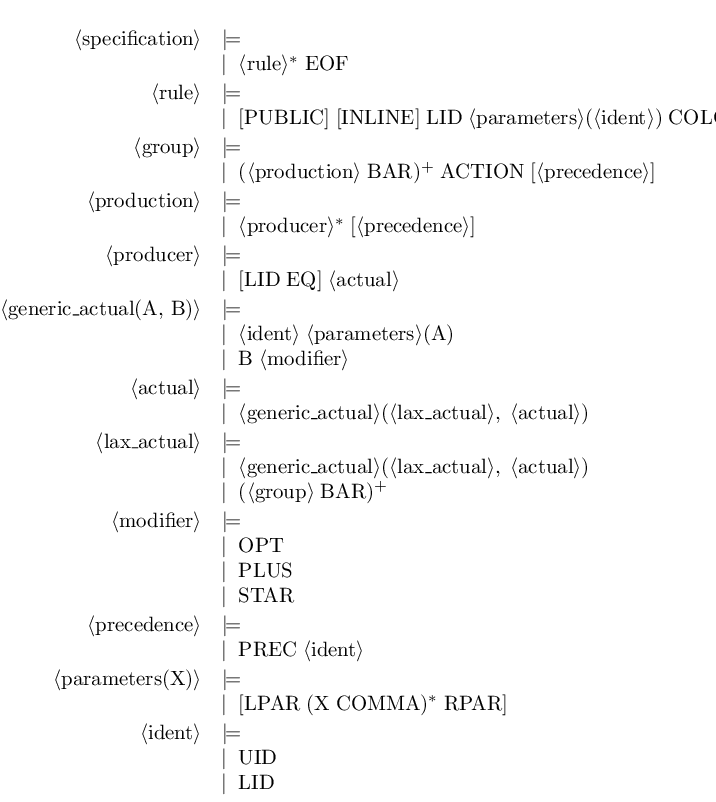
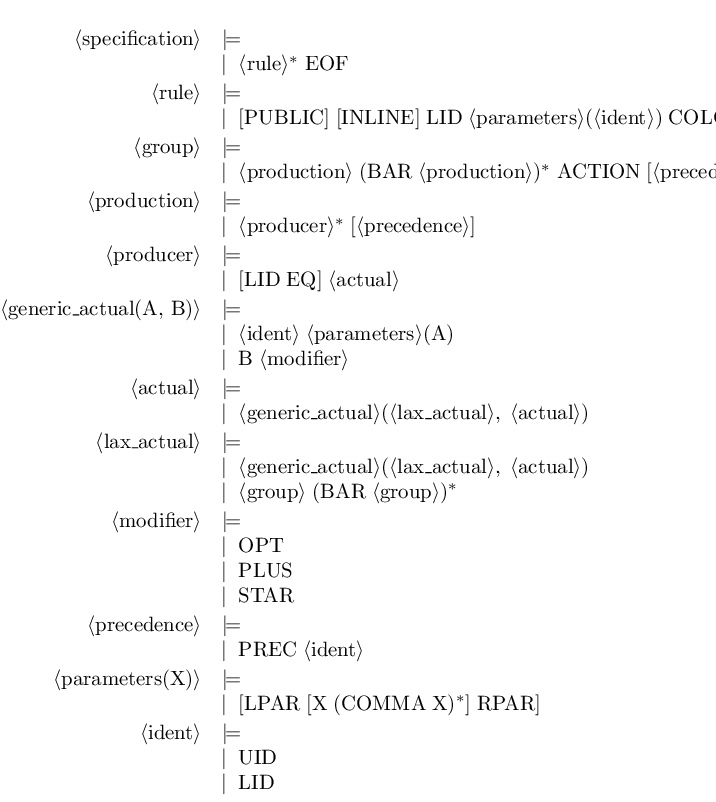
Separated lists are recognized

diff --git a/README.md b/README.md
@@ -33,12 +33,51 @@ menhirbrav [latex|html] [options] <file>
 By default **MenhirBrav** defaults to standard output, use `-o <file>` to specify an output file.
 
 ### Pattern recognition
-**MenhirBrav** can infer some common patterns (possibly parametrized):
+**MenhirBrav** can infer some common patterns (possibly parameterized):
 - options
-- lists
-- non-empty lists
+- lists and non-empty lists
+- separated lists and non-empty separated lists
 
 Once recognized, the rules are deleted and their instances are replaced with default constructions (eg. *\_\**, *\_+*, *[\_]*).
+
+For example, on these simple rules (from this [file](doc/reco.mly)):
+```
+my_option(X, Y):
+  |     {}
+  | Y X {}
+
+my_list(A):
+  |              {}
+  | A my_list(A) {}
+
+my_nonempty_list(C):
+  | C                     {}
+  | C my_nonempty_list(C) {}
+
+my_separated_nonempty_list(X,Y):
+  | X                                   {}
+  | X Y my_separated_nonempty_list(X,Y) {}
+
+my_separated_list(X,S):
+  |                                 {}
+  | my_separated_nonempty_list(X,S) {}
+
+my_rule(E,F,S1,S2):
+  | my_option(E, F)                    {}
+  | my_list(E)                         {}
+  | my_nonempty_list(F)                {}
+  | my_separated_nonempty_list(E,S1)   {}
+  | my_separated_list(F,S2)            {}
+```
+**MenhirBrav** outputs:
+```
+my_rule(E, F, S1, S2) ::=
+  | [F E]
+  | E*
+  | F+
+  | E (S1 E)*
+  | [F (S2 F)*]
+```
 
 ### Multi-format output
 By default the output format is a simple text format close to the BNF syntax. You can use the subcommands `latex` or `html` to get a LaTeX (resp. HTML) file.
@@ -48,7 +87,7 @@ Use the following options to tweak the LaTeX:
 - `-syntax`: use the [syntax] package
 - `-backnaur`: use the [backnaur] package (not recommended: manual line-wrapping through this [trick](https://tex.stackexchange.com/a/308753))
 
-In either cases, the output is customizable *via* the use of LaTeX commands that you can redefine to fit your needs.
+In either cases, the output may be customized *via* the use of LaTeX commands that you can redefine to fit your needs.
 
 The HTML file uses internal CSS stylesheet which allows one to customize the output (in a poorer way than with the `latex` switch).
 
@@ -61,10 +100,10 @@ Here are the different formats output obtained by **MenhirBrav** from its own [p
   | <rule>* EOF
 
 <rule> ::=
-  | [PUBLIC] [INLINE] LID parameters(<ident>) COLON [BAR] (<group> BAR)+
+  | [PUBLIC] [INLINE] LID parameters(<ident>) COLON [BAR] <group> (BAR <group>)*
 
 <group> ::=
-  | (<production> BAR)+ ACTION [<precedence>]
+  | <production> (BAR <production>)* ACTION [<precedence>]
 
 <production> ::=
   | <producer>* [<precedence>]
@@ -81,7 +120,7 @@ generic_actual(A, B) ::=
 
 <lax_actual> ::=
   | generic_actual(<lax_actual>, <actual>)
-  | (<group> BAR)+
+  | <group> (BAR <group>)*
 
 <modifier> ::=
   | OPT
@@ -92,11 +131,12 @@ generic_actual(A, B) ::=
   | PREC <ident>
 
 parameters(X) ::=
-  | [LPAR (X COMMA)* RPAR]
+  | [LPAR [X (COMMA X)*] RPAR]
 
 <ident> ::=
   | UID
   | LID
+
 ```
 
 #### LaTeX
